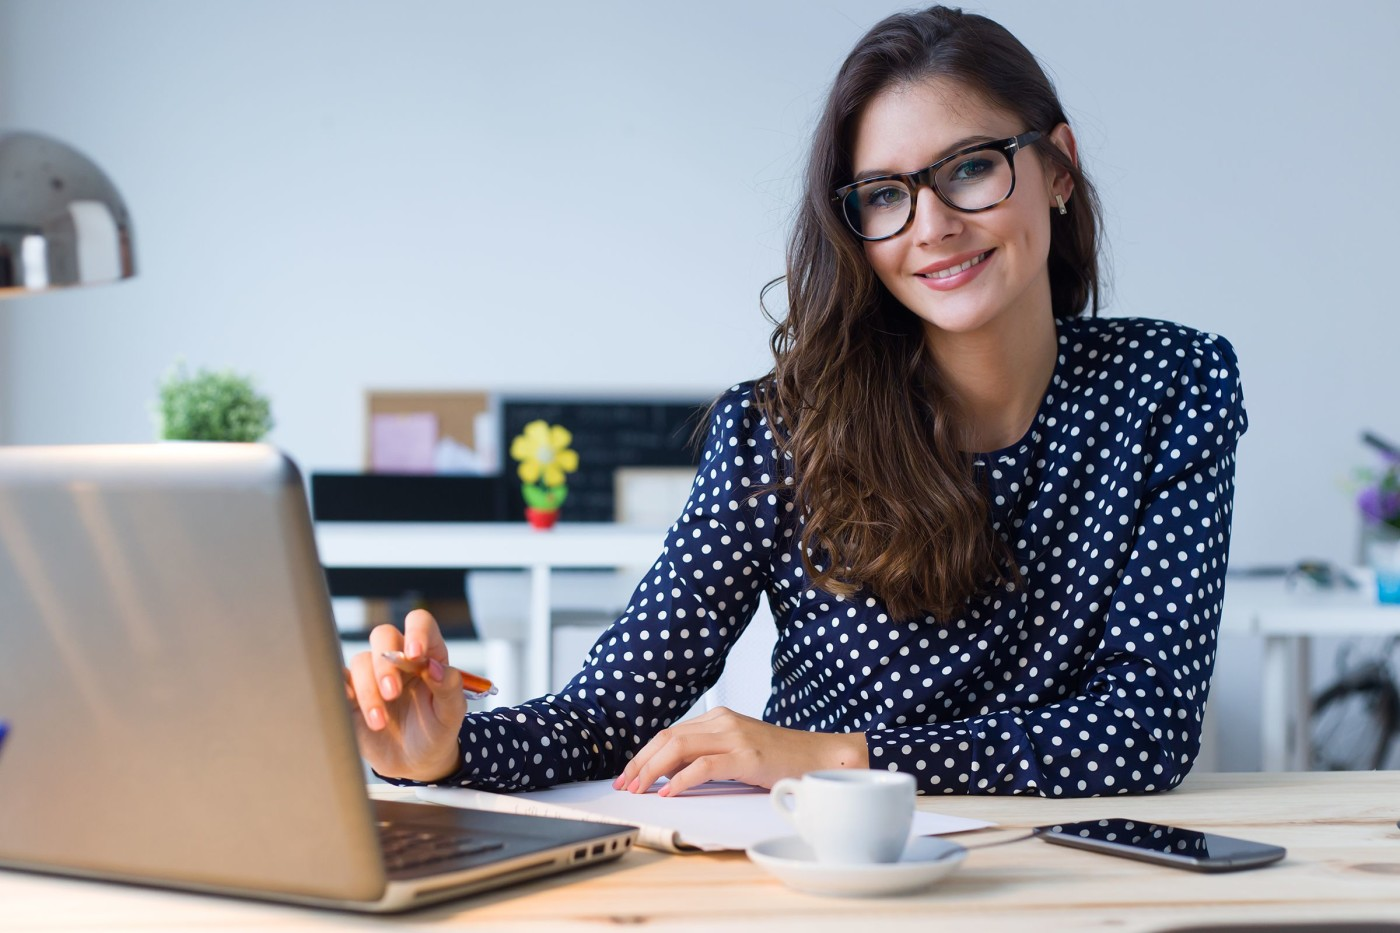
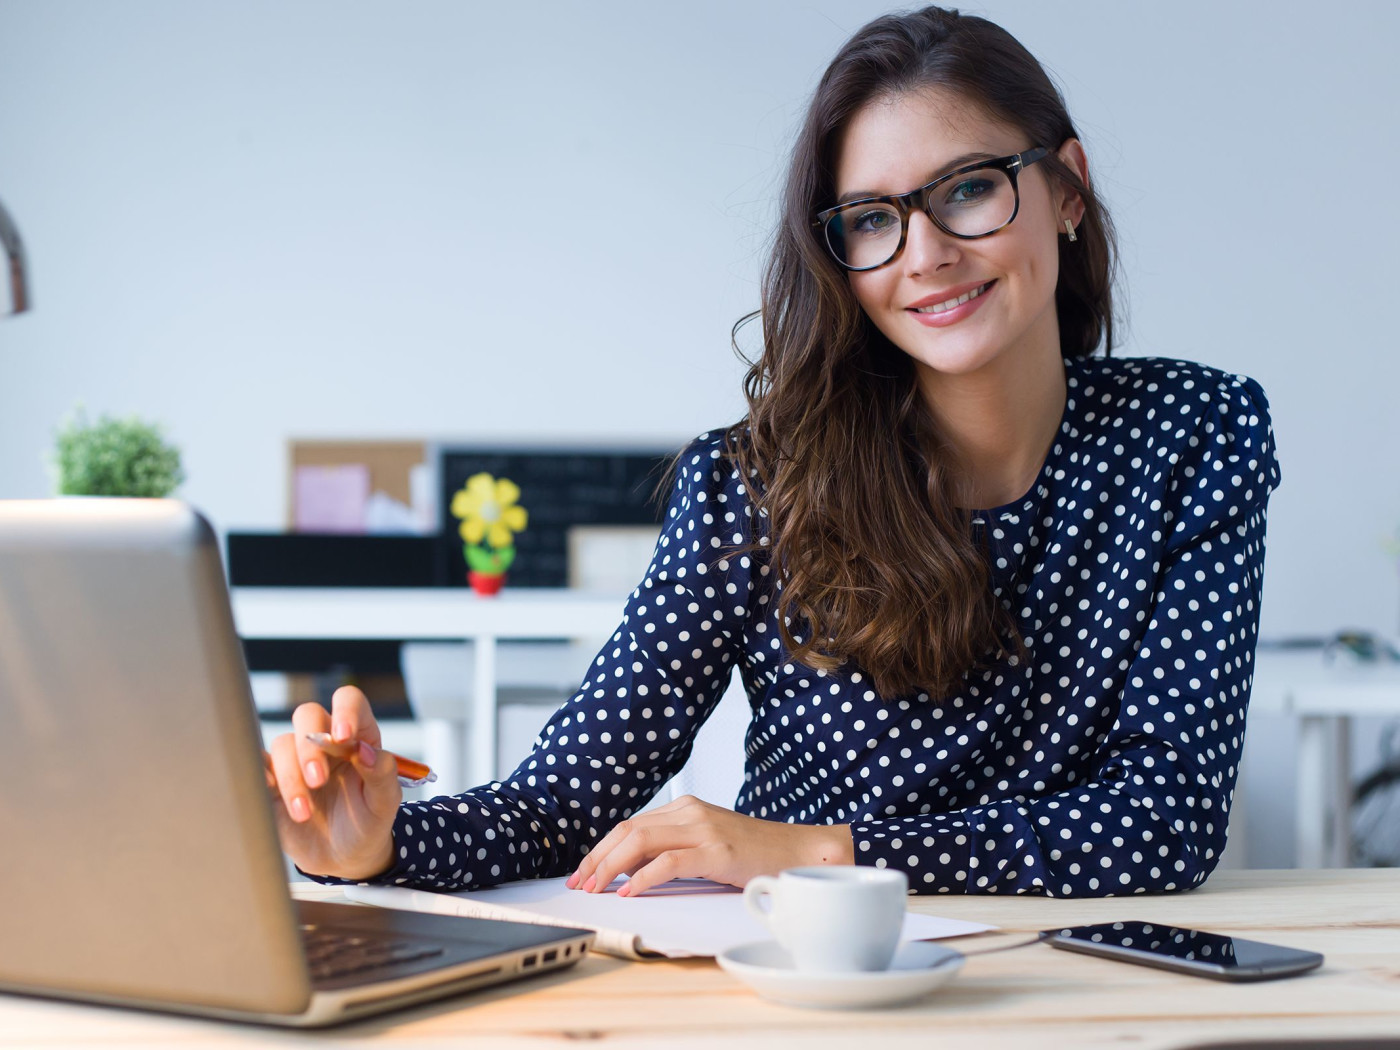
Changes in content variables for TWIG

diff --git a/views/pages/index.html b/views/pages/index.html
@@ -1,10 +1,13 @@
 {# Variables:
-    - box.title
-    - box.content
-    - box.images
-        - url
-        - width
-        - height
+    - title
+    - box
+        - title
+        - content
+        - images
+            - large | medium | small
+                - url
+                - width
+                - height
 #}
 
 {% extends "base.html" %}
@@ -15,8 +18,10 @@
 <p>{{ box.content }}</p>
 
 <!-- Display all images -->
-{% for image in box.images %}
-    <img src="{{ image.url }}" alt="Default image size: {{ image.width }} x {{ image.height }}px" style="max-width: 200px; height: auto;" />
+{% for size, image in box.images %}
+<figure style="display: inline-block">
+    <img src="{{ image.url }}" alt="Trulli" style="max-width: 250px">
+    <figcaption>Image size: {{ size }}, {{ image.width }}x{{ image.height }}px</figcaption>
+</figure>
 {% endfor %}
-
 {% endblock %}

diff --git a/index.php b/index.php
@@ -1,5 +1,4 @@
-<?php
-declare(strict_types = 1);
+<?php declare(strict_types = 1);
 
 include_once 'vendor/autoload.php';
 
@@ -8,14 +7,23 @@ $content = [
     'box' => [
         'title' => 'Ultrices dui sapien eget mi',
         'content' => 'Lorem ipsum dolor sit amet, consectetur adipiscing elit, sed do eiusmod tempor incididunt ut labore et dolore magna aliqua. Sit amet cursus sit amet dictum sit. Augue ut lectus arcu bibendum at varius vel. Urna neque viverra justo nec ultrices dui sapien. Nunc sed id semper risus. Condimentum vitae sapien pellentesque habitant morbi tristique senectus et netus. Sit amet facilisis magna etiam tempor orci. Ipsum suspendisse ultrices gravida dictum fusce ut placerat orci nulla. Bibendum arcu vitae elementum curabitur vitae nunc sed velit dignissim. Nec nam aliquam sem et. Cursus mattis molestie a iaculis at.',
-        'images' => array_map(function ($src) {
-            list($width, $height) = getimagesize($src);
-            return [
-                'url' => $src,
-                'width' => $width,
-                'height' => $height
-            ];
-        }, glob("assets/images/*.jpg"))
+        'images' => [
+            'large' => [
+                'url' => 'assets/images/woman_glasses_1400.jpg',
+                'width' => 1400,
+                'height' => 1050
+            ],
+            'medium' => [
+                'url' => 'assets/images/woman_glasses_720.jpg',
+                'width' => 720,
+                'height' => 540
+            ],
+            'small' => [
+                'url' => 'assets/images/woman_glasses_480.jpg',
+                'width' => 480,
+                'height' => 360
+            ]
+        ]
     ]
 ];
 

diff --git a/README.md b/README.md
@@ -1,4 +1,4 @@
-#Front-end developer recruitment task
+# Front-end developer recruitment task
 
 Hello 👋🏼 braveheart. We are truely delighted to introduce you to a front-end developer recruitment task. It was designed to provide multiple layers of a feedback for our HR teams — on top of basic functionality of a module you are about to create, we will test your english and documentation reading skills, we will examine code quality, ability to follow and incorporate latest trends and technologies.
 
